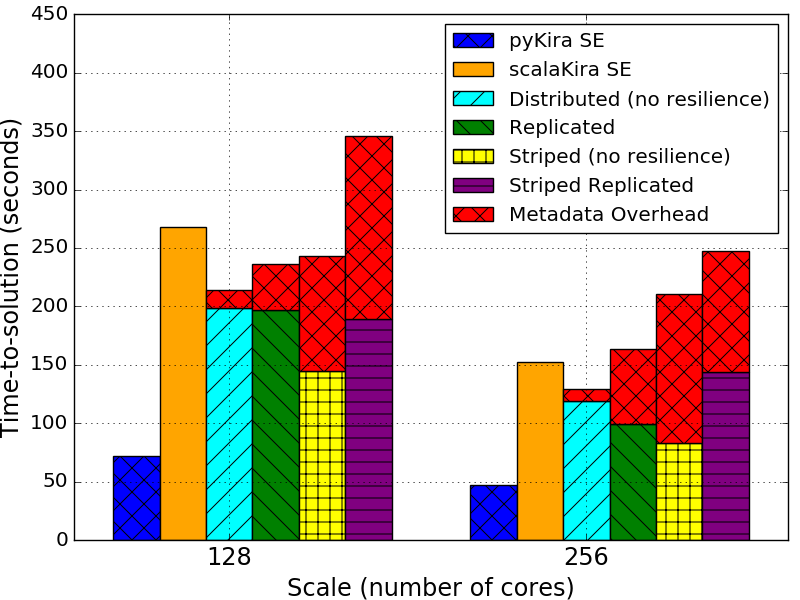
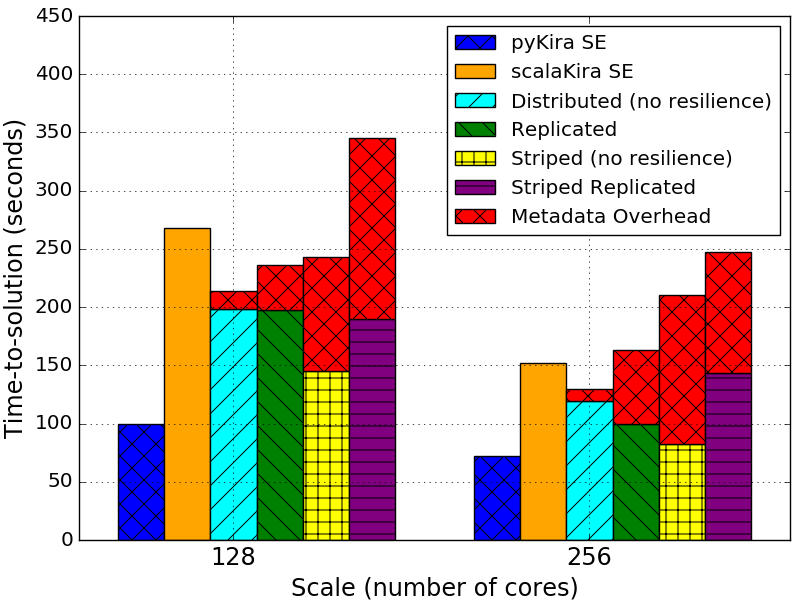
fix numbers in figure 6

Changed region(s): [[0.0, 0.0, 1.0, 0.96], [0.5625, 0.6, 0.7188, 0.9], [0.3438, 0.96, 0.7188, 1.0]]

diff --git a/Kira.tex b/Kira.tex
@@ -1142,7 +1142,7 @@ Figure~\ref{fig:scaleout} where scalaKira SE begins to run faster than the C ver
 As stated previously in~\S\ref{sec:HPC}, the C version performs a two-step process. 
 The first step collects and partitions all file paths. We refer to this step as metadata overhead. 
 The processing step occurs next, and is where each node processes its own partition.
-Figure~\ref{fig:allgluster} compares the performance of Kira SE and the C version with
+Figure~\ref{fig:allgluster} compares the performance of scalaKira SE, pyKira SE,  and the C version with
 profiled metadata overhead.  
 
 \begin{figure}[h]
@@ -1153,7 +1153,7 @@ profiled metadata overhead.
   	\end{center}
 \end{figure}
 
-The C version running in the \emph{distributed} mode outperforms Kira SE at both scales. 
+The C version running in the \emph{distributed} mode outperforms scalaKira SE at both scales. 
 However, the \emph{distributed} mode is not practical in a cloud environment since
 it has no replication or any other resilience mechanism. Replicating or striping
 files introduces extra metadata overhead when we compare the \emph{replicated} mode
@@ -1166,10 +1166,13 @@ to the doubled probability of accessing half file (with the striping factor of t
 Since the input files are $\sim$6MB each, and are always processed by a single task, the
 \emph{replicated} mode should be preferred to the \emph{striped replicated} mode.
 
-On 256 cores, Kira SE outperforms all GlusterFS configurations except for the (impractical) \emph{distributed}
-mode. Kira SE delivers comparable performance to this mode (18\% slower). In our
-experiments with the 1TB dataset in Section~\ref{sec:1TB-EC2}, Kira SE outperforms
-the \emph{distributed} mode.
+On 256 cores, scalaKira SE outperforms all GlusterFS configurations except for the (impractical) \emph{distributed}
+mode. scalaKira SE delivers comparable performance to this mode (18\% slower). 
+In our experiments with the 1TB dataset in Section~\ref{sec:1TB-EC2}, 
+scalaKira SE runs faster than the \emph{distributed} mode.
+
+As expected, pyKira SE improves the performance significantly with speedups of 2.1$\times$ and 1.8 $\times$
+compared to the \emph{distributed} mode on 128 cores and 256 cores, respectively.
 
 \subsection{1TB Dataset Performance}
 \label{sec:Performance-1TB}

diff --git a/pictures/allgluster.py b/pictures/allgluster.py
@@ -4,7 +4,7 @@ import numpy as np
 import matplotlib.pyplot as plt
 
 N = 2
-pyKira = (72, 47)
+pyKira = (100, 72)
 Kira = (268.1, 152.3)
 Dis = (198.7, 119.3)
 Dis_meta = (15, 10)
